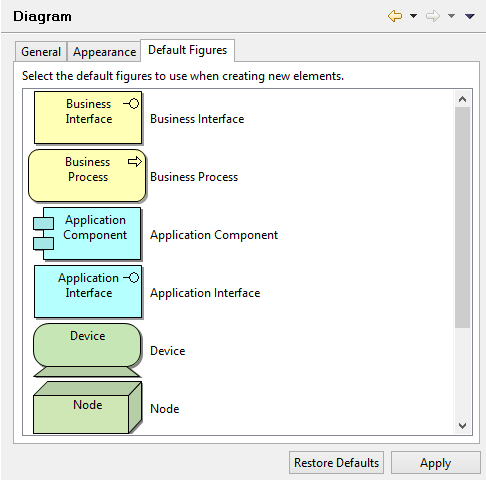
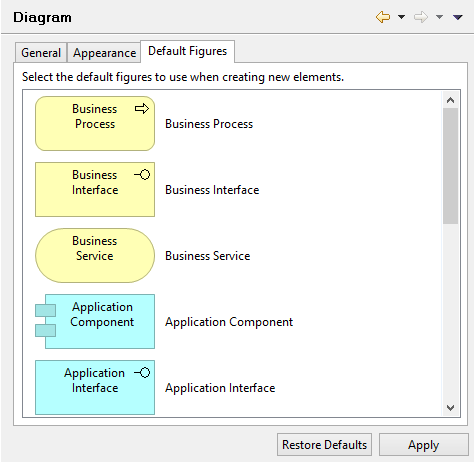
[Alternate Figures] Update Help

Changed region(s): [[0.0, 0.0, 1.0, 1.0]]

diff --git a/com.archimatetool.help/help/properties_element_appearance.html b/com.archimatetool.help/help/properties_element_appearance.html
@@ -51,15 +51,20 @@
     
     <p>This tab is only available when an element is selected in a View and only for certain figures.</p>
     
-    <p>Some elements can be represented by different figures. These are:</p>
+    <p>Some elements can be represented by alternate figures. These are:</p>
     
-    <p>Application Interface<br/>
-      Business Interface<br/>
-      Business Process<br/>
-      Infrastructure Interface<br/>
-      Application Component<br/>
-      Node<br/>
-      Device</p>
+    <ul>
+      <li>Business Interface</li>
+      <li>Application Interface</li>
+      <li>Infrastructure Interface</li>
+      <li>Business Service</li>
+      <li>Application Service</li>
+      <li>Infrastructure Service</li>
+      <li>Business Process</li>
+      <li>Application Component</li>
+      <li>Node</li>
+      <li>Device</li>
+     </ul>
     
     <p>The default figure to use when creating new elements can be set in <a href="prefs_diagram.html">Preferences</a>.</p>
     
